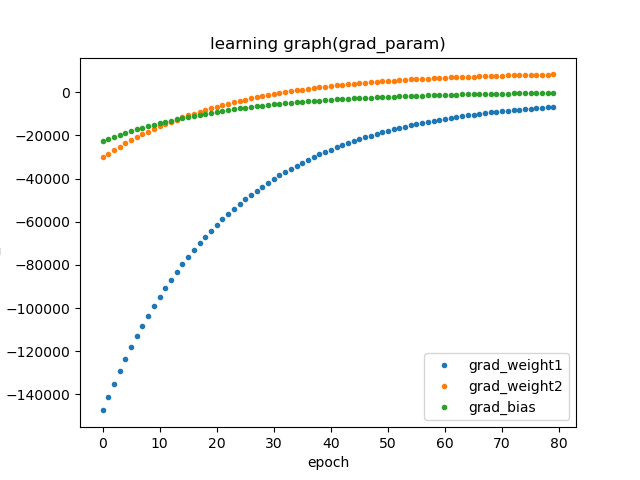
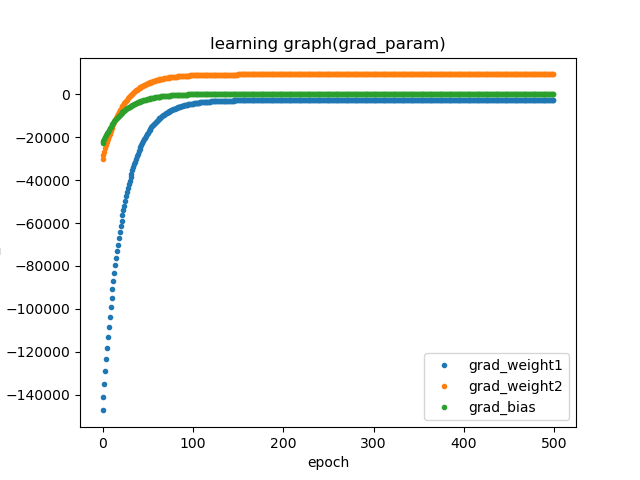
just add notes

diff --git a/LR_multi_assist.py b/LR_multi_assist.py
@@ -2,13 +2,13 @@ import numpy as np
 import matplotlib.pyplot as plt
 
 print("Step2: Development Multi Linear Regression Algorithm")
-
 # input_array will be 2-d array, target_array will be 1-d array(2입력1출력 다중선형회귀)
 #paramaters = weight, bias will be matrix
 #input_array1=RM, input_array2=CRIM, target_array=MEDV, predict_array=예측한 출력값
 
 def linear_regression_2D(input_array, target_array, epoch):
     weight, bias = np.zeros(shape=(2,1)), np.zeros(shape=(506,1))
+    #for record history(그래프 그리려고)
     loss_list = []
     weight_list, bias_list = [[], []], []
     grad_weight_list, grad_bias_list = [[], []], []
@@ -16,16 +16,22 @@ def linear_regression_2D(input_array, target_array, epoch):
     print(f"initial : weight1, weight2, bias : {weight[0,0]:.4f}, {weight[1,0]:.4f}, {bias[0,0]:.4f}")
     
     for i in range(0, epoch):
+        #predict variable
         predict_array = predict(input_array, weight, bias)
+        #difference function(편차 함수)
         diff_array = predict_array - target_array
+        #calculate gradients(경사 계산)
         gradient_weight1 = np.sum(2*input_array[:,0]*diff_array) / len(diff_array) 
         gradient_weight2 = np.sum(2*input_array[:,1]*diff_array) / len(diff_array)
         gradient_bias = np.sum(2*diff_array) / len(diff_array)
+        #adjust parameters(2 weights, bias)(파라미터 수정)
         weight[0,0] -= (lr * gradient_weight1)
         weight[1,0] -= (lr * gradient_weight2)
         bias[:,0] -= (lr * gradient_bias)
+        #loss variable
         loss = lossfunction(diff_array)
 
+        #for record history(그래프 그리려고)
         weight_list[0].append(weight[0,0])
         weight_list[1].append(weight[1,0])
         bias_list.append(bias[0,0])
@@ -54,36 +60,38 @@ def linear_regression_2D(input_array, target_array, epoch):
     
 def get_data(): 
     number_of_rooms_list, price_list, crime_rate_list = [], [], []
-    with open("BostonData1.txt", "r") as f:
+    with open("BostonData1.txt", "r") as f: #read text file as 'read mode'
                 for lines in f: 
                     a = lines[0:5]
                     b = lines[5:10]
-                    number_of_rooms_list.append(float(a.replace(" ", "")))
-                    price_list.append(float(b.replace(" ", "")))
+                    number_of_rooms_list.append(float(a.replace(" ", ""))) #부동소수점 자료형
+                    price_list.append(float(b.replace(" ", ""))) #still 'list'
     with open("BostonData2.txt", "r") as f:
                 for lines in f:
                     c = lines[3:10]
                     crime_rate_list.append(float(c))
-    input_array = np.c_[np.array(number_of_rooms_list), np.array(crime_rate_list)]
+    #change to array / add row
+    input_array = np.c_[np.array(number_of_rooms_list), np.array(crime_rate_list)] 
     target_array = np.array(price_list)
     return(input_array, target_array)
 
+#predict function(예측함수)
 def predict(input_array, weight, bias):
     predict_array = (input_array)@weight+bias
     return predict_array
 
-
+#loss function(손실함수)
 def lossfunction(diff_array):
     loss = np.sum((diff_array)**2)/len(diff_array)
     return loss
 
-
+#__name__ : interpreter 글로벌 변수 
 if __name__ == "__main__":
+    #인터프리터에서 직접 실행했을 경우에만 if문을 실행해라(import 말고)
     input_arr, target_arr = get_data()
-    epoch = 80
+    epoch = 500
     weight_arr, bias_arr, loss_arr, grad_weight_arr, grad_bias_arr = linear_regression_2D(input_arr, target_arr, epoch)
-    #print(grad_weight_arr[0, -1])
-    #print(grad_weight_arr[1,-1])
+    #result graph
     plt.figure()
     plt.subplot(2, 1, 1)
     plt.plot(input_arr[:,0], target_arr, ".", label="target")

diff --git a/LR_single_original.py b/LR_single_original.py
@@ -9,12 +9,13 @@ print("Step1: Development Single Linear Regression Algorithm")
 def linear_regression_1D(input_array, target_array, epoch):
     weight, bias = 1,1
     loss_list = []
-    lr = 1e-3
+    lr = 1e-4
     print(f"initial : weight, bias : {weight}, {bias}")
+    
     for i in range(0, epoch):
         #predict variable
         predict_array = predict(input_array, weight, bias)
-        #difference function(손실 함수)
+        #difference function(편차 함수)
         diff_array = predict_array - target_array
         #calculate gradients(경사 계산)
         gradient_weight = np.sum(2*input_array*diff_array) / len(diff_array) 
